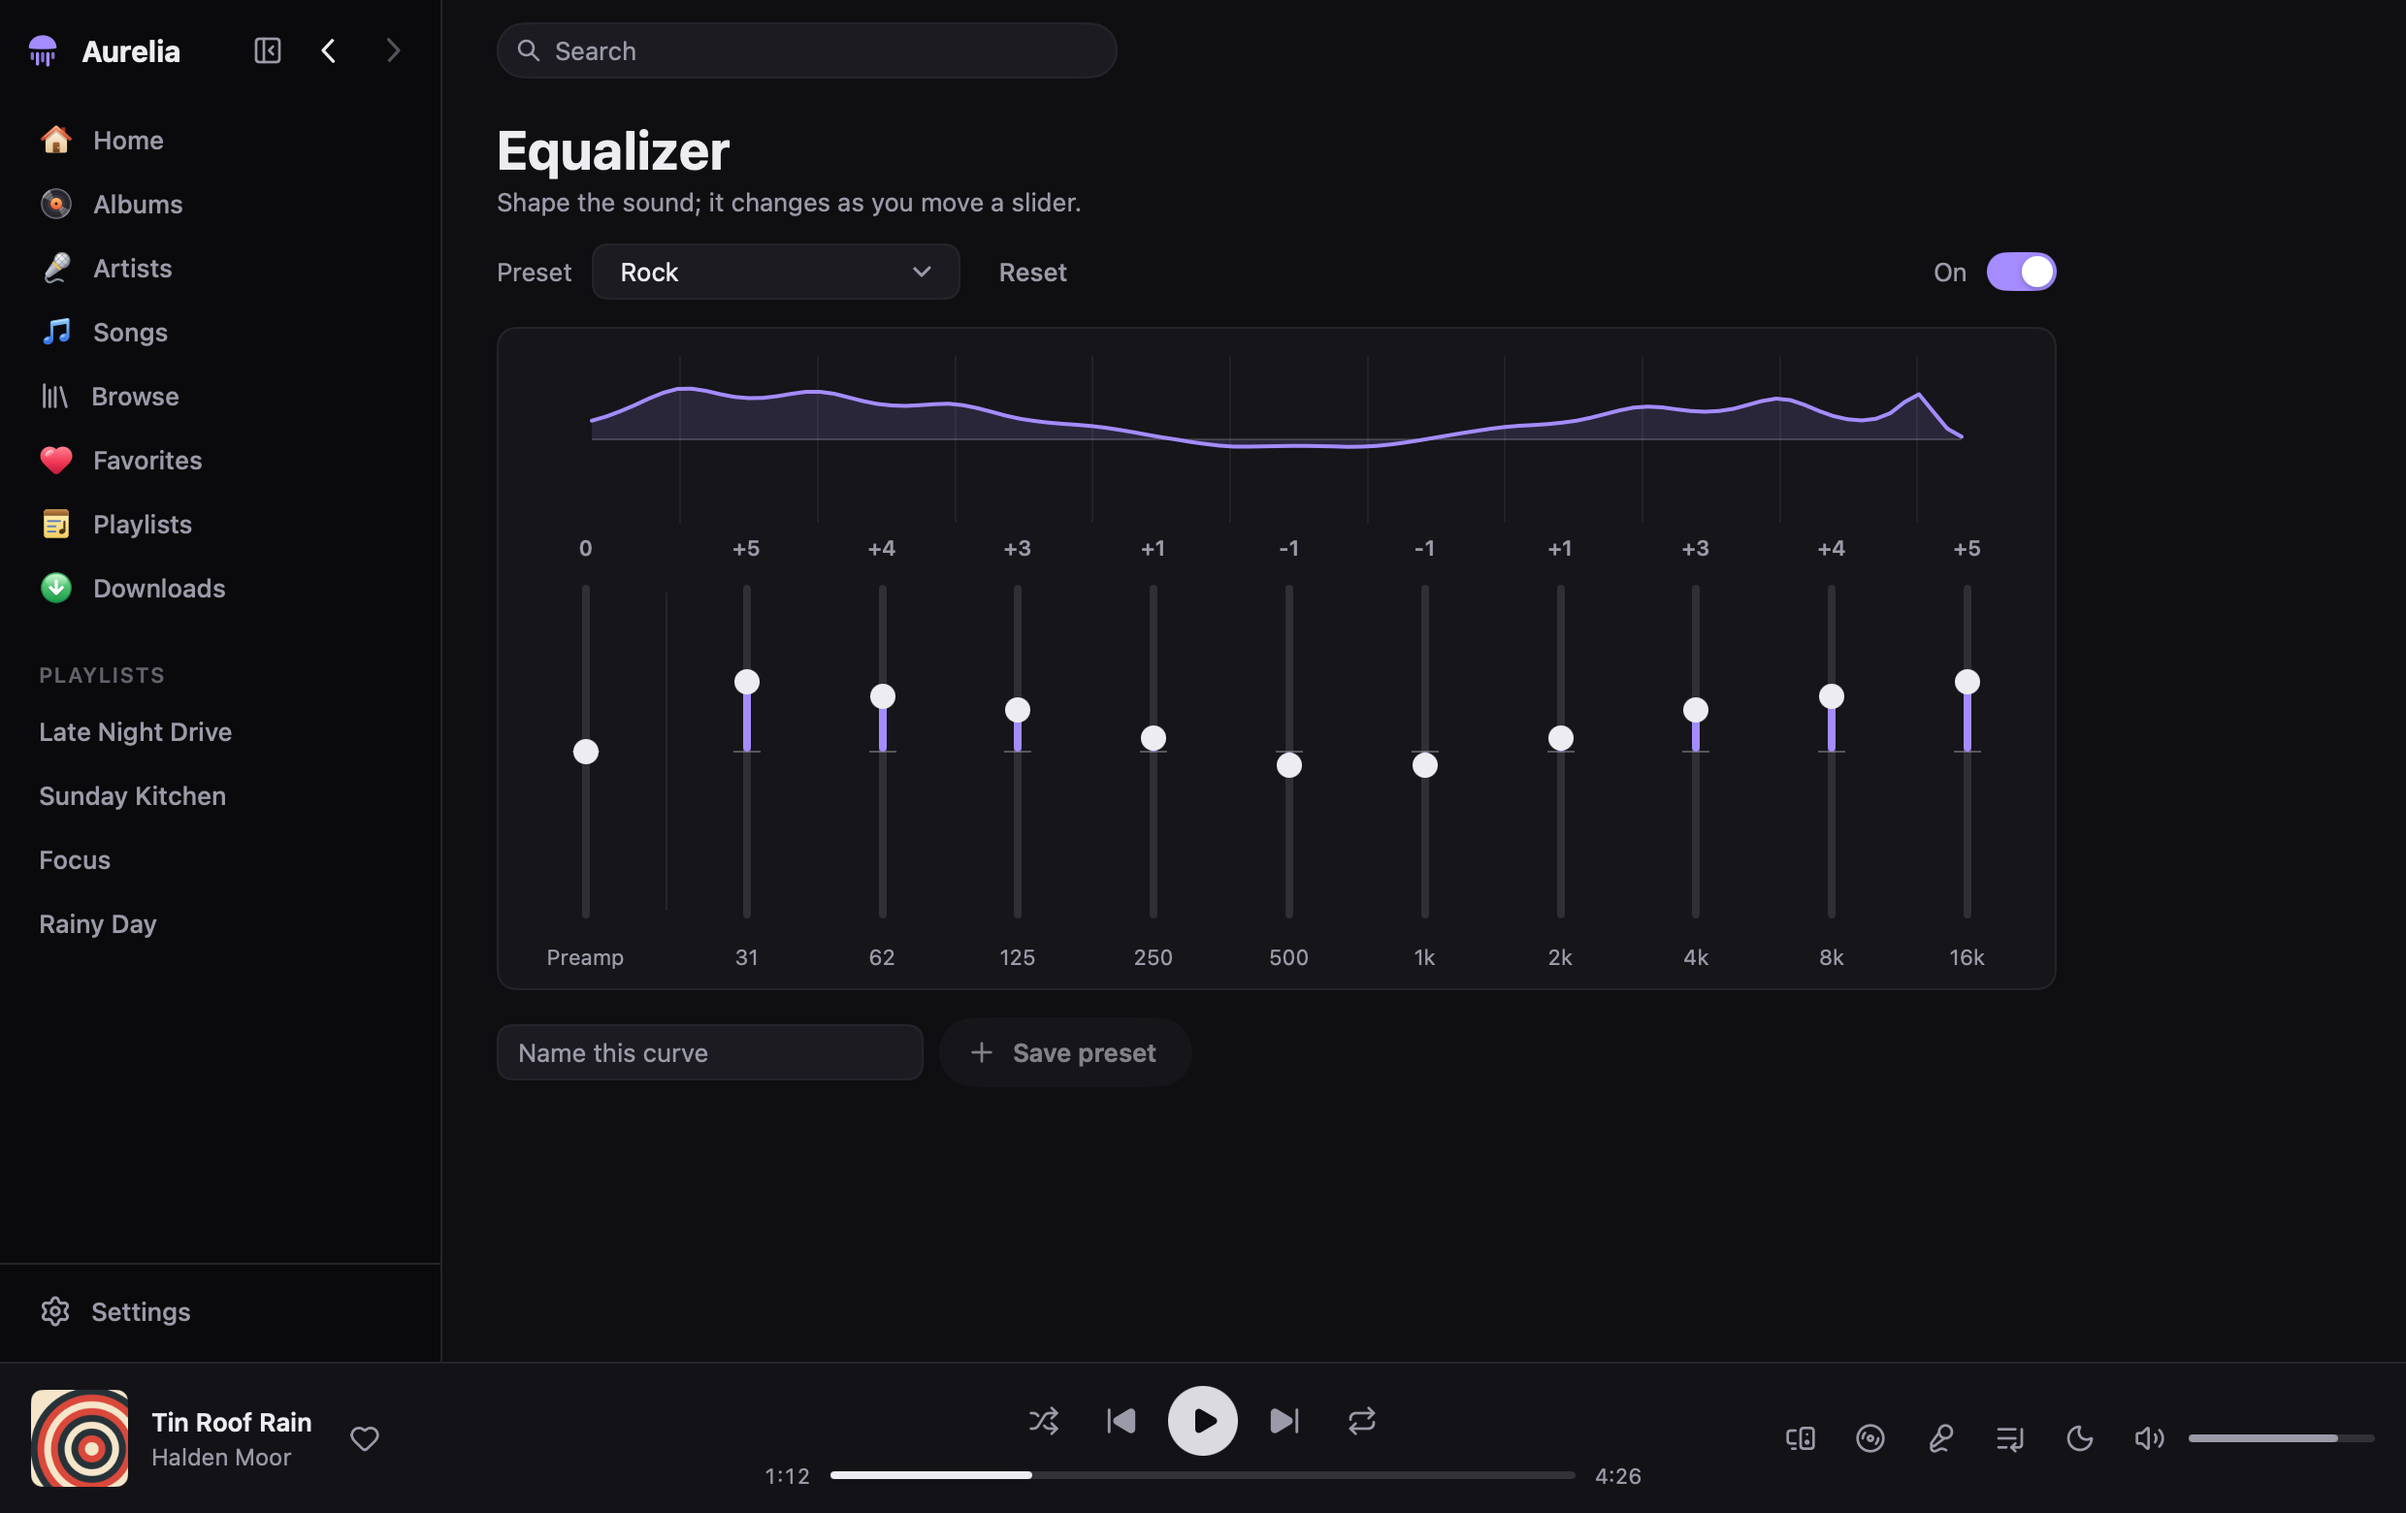
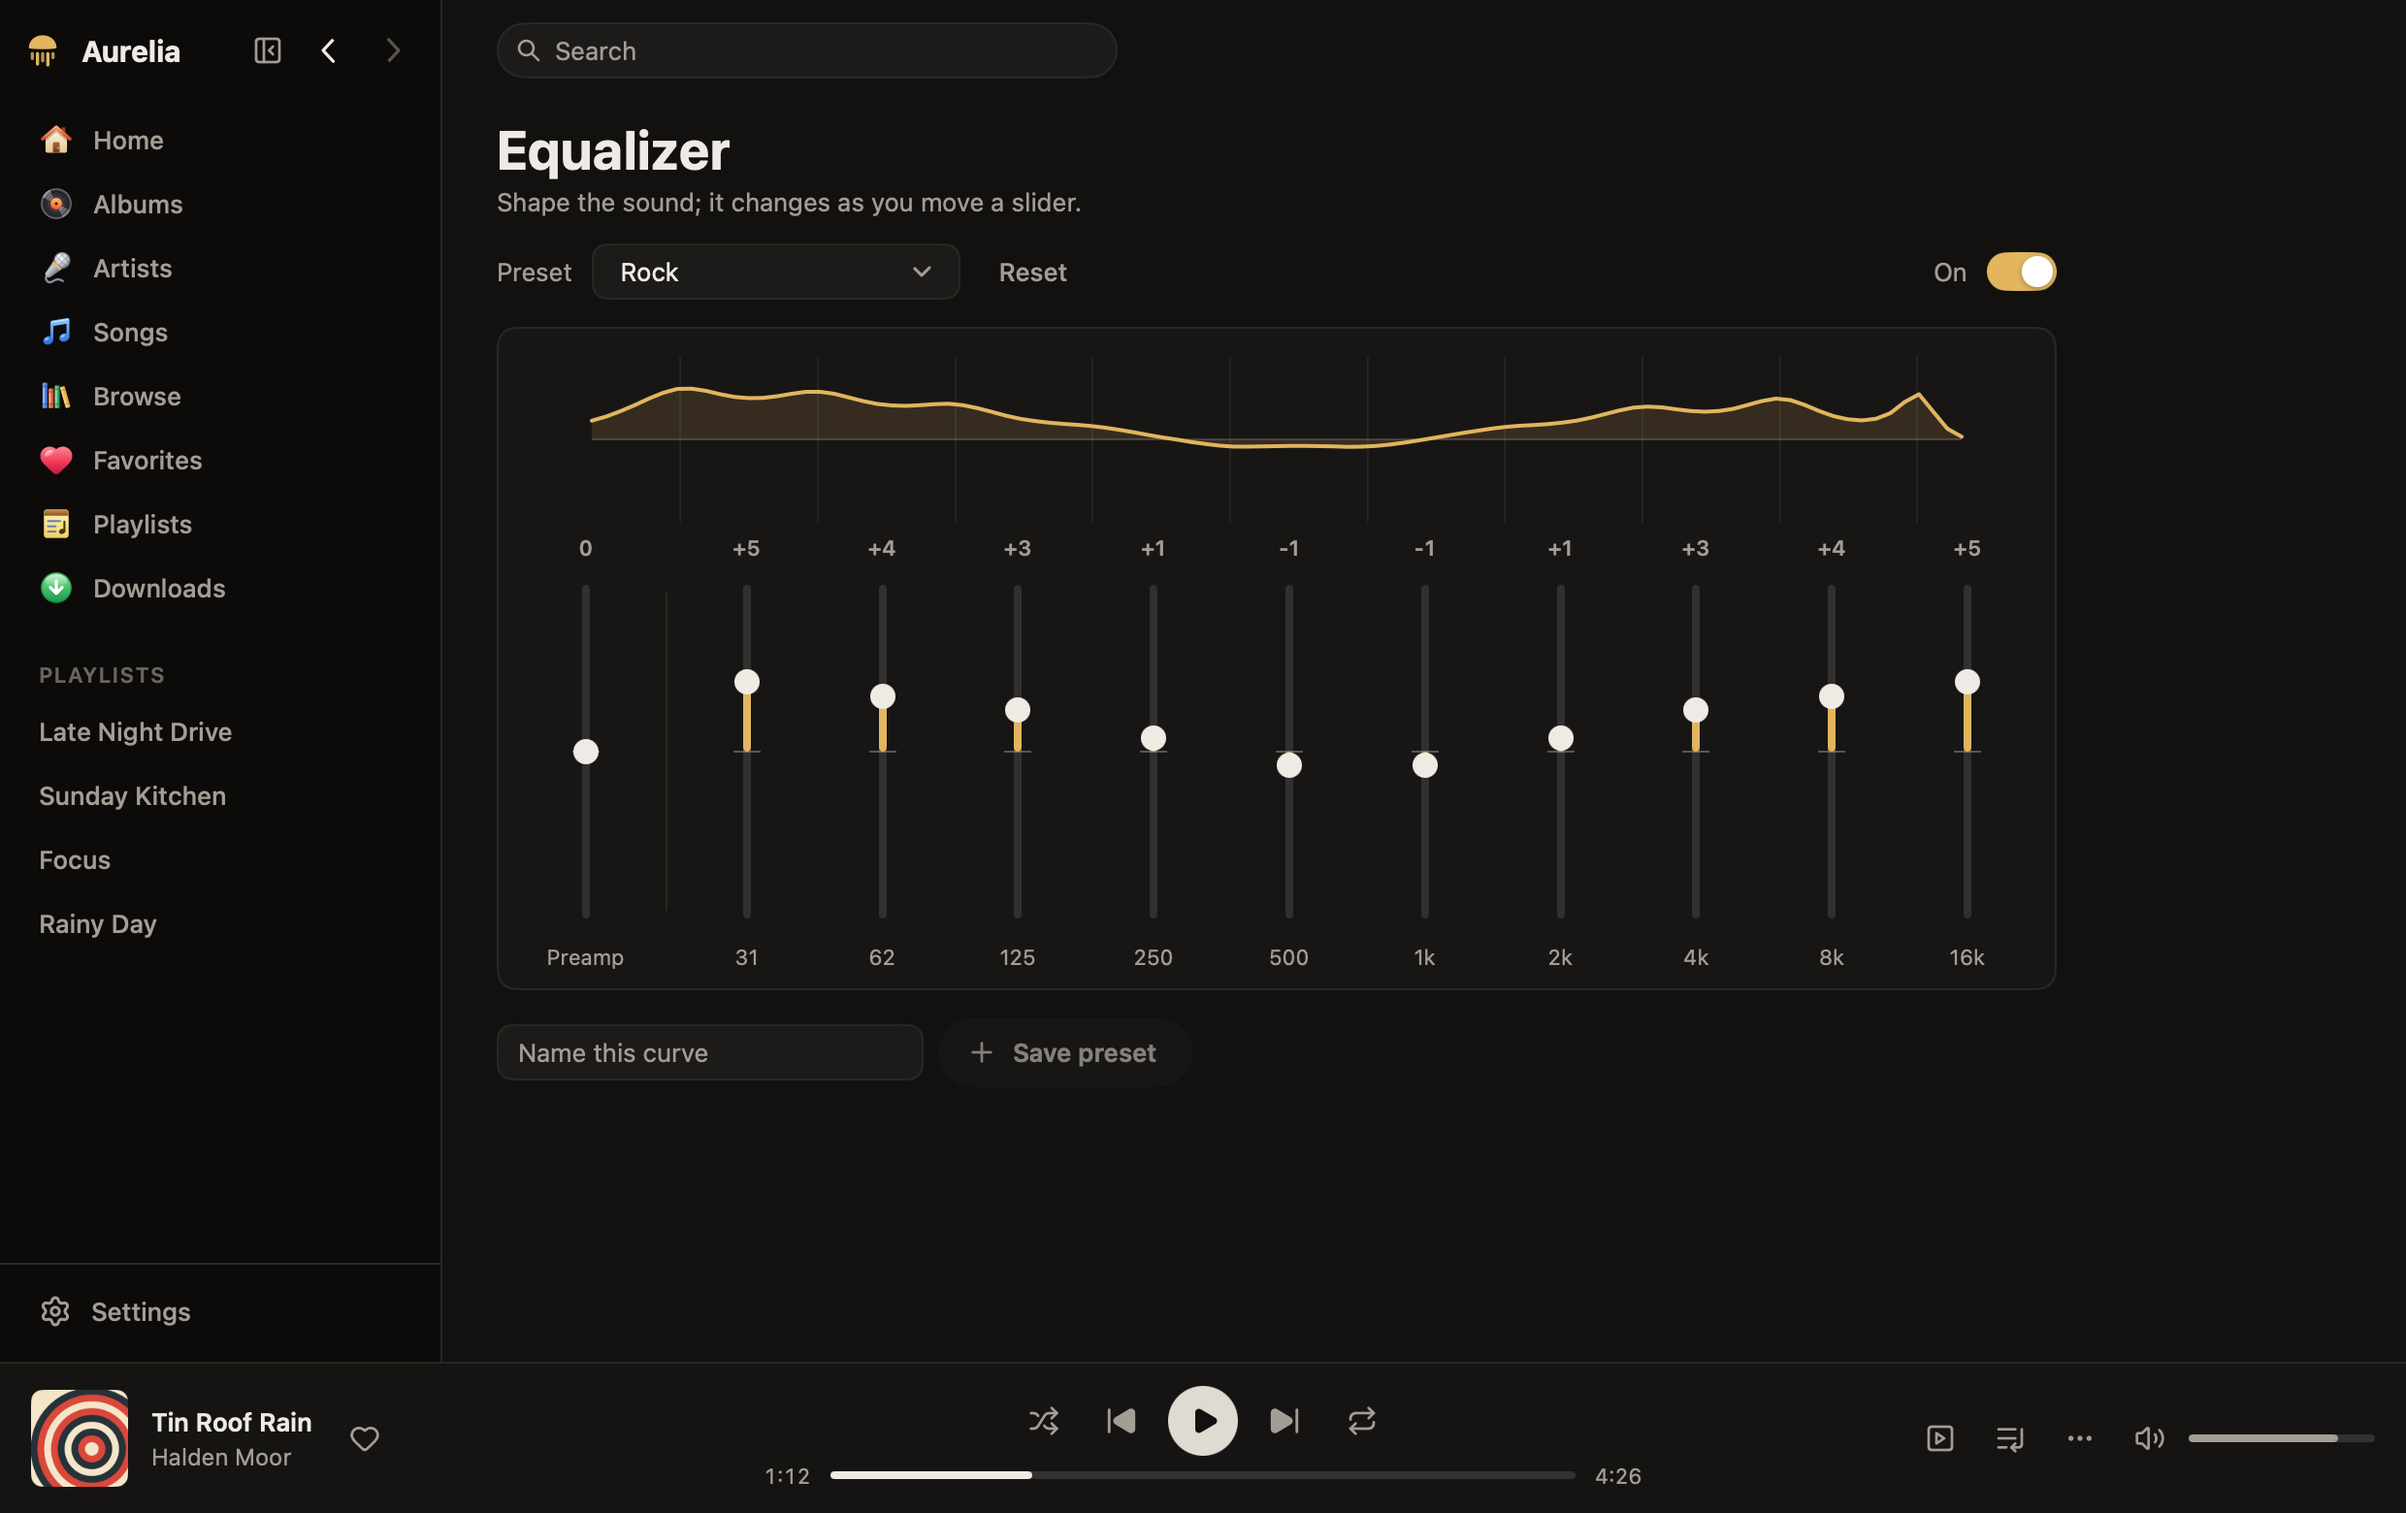
README screenshots in gold, and the critique's fixes in TODO
The screenshots of the README are drawn again with the gold default and
the calmer player bar. TODO lists what the design critique asked for,
until it is seen running.

diff --git a/TODO.md b/TODO.md
@@ -21,6 +21,24 @@ little kept on disk.
 
 ## To do
 
+### From the design critique (2026-11-09, 27/40)
+
+Built, with tests and screenshots checked; not yet seen running in the
+app, so each stays here until it is.
+
+- [ ] Search's "/" and Cmd+K put the keyboard in the field's text; Up
+      from the top result goes back to it.
+- [ ] Downloaded is one quiet check, in rows and the header; colour only
+      while a download goes on; a failed one says so.
+- [ ] One meaning per icon: Lyrics a quote, Now Playing its own, Browse
+      in colour; Favorites says Play and Shuffle.
+- [ ] The player bar's right side: Now Playing, Queue, "…" (sleep timer,
+      the device to play on), volume.
+- [ ] A small window keeps the album's buttons on one line, the song's
+      name whole, and Shuffle in reach.
+- [ ] Gold themes by default, the lavender kept as Lavender. The app's
+      icon is still purple: to decide.
+
 ### Playing like Spotify
 
 Built in 0.4.0, with tests for each; not yet seen running in the app,
